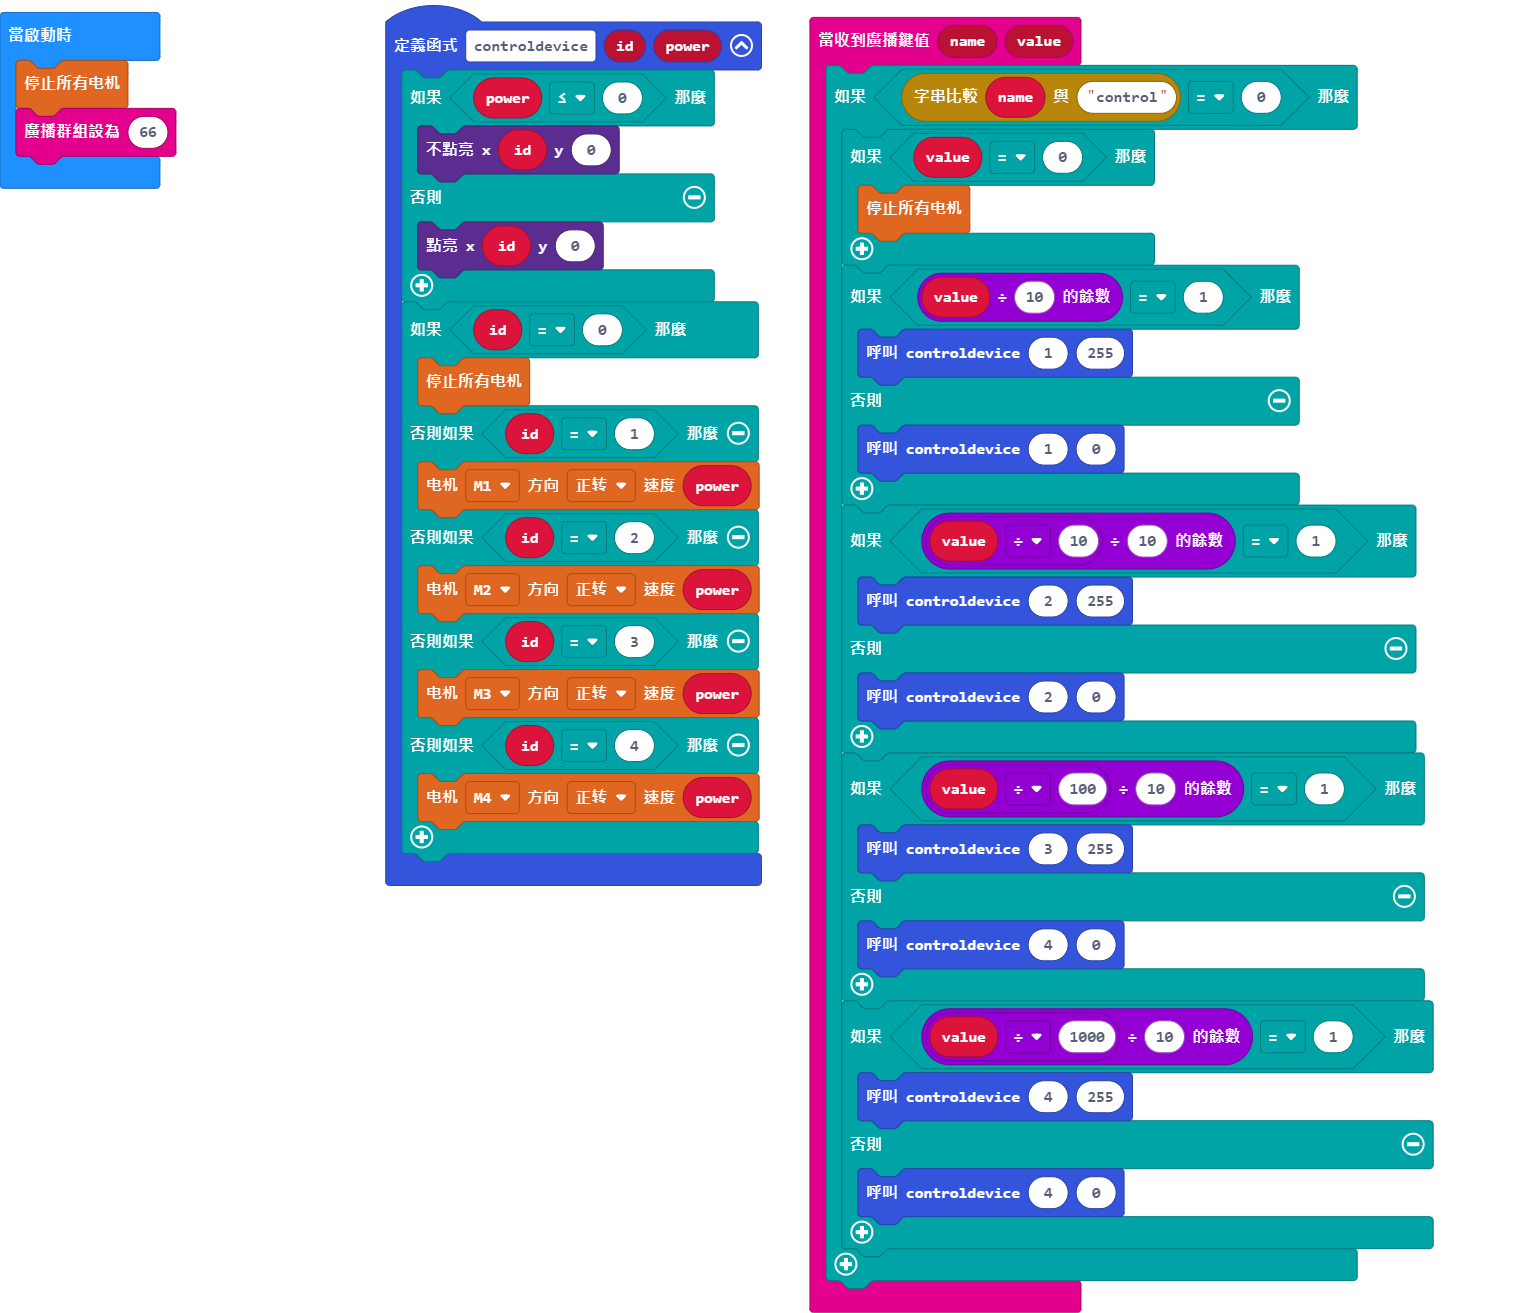
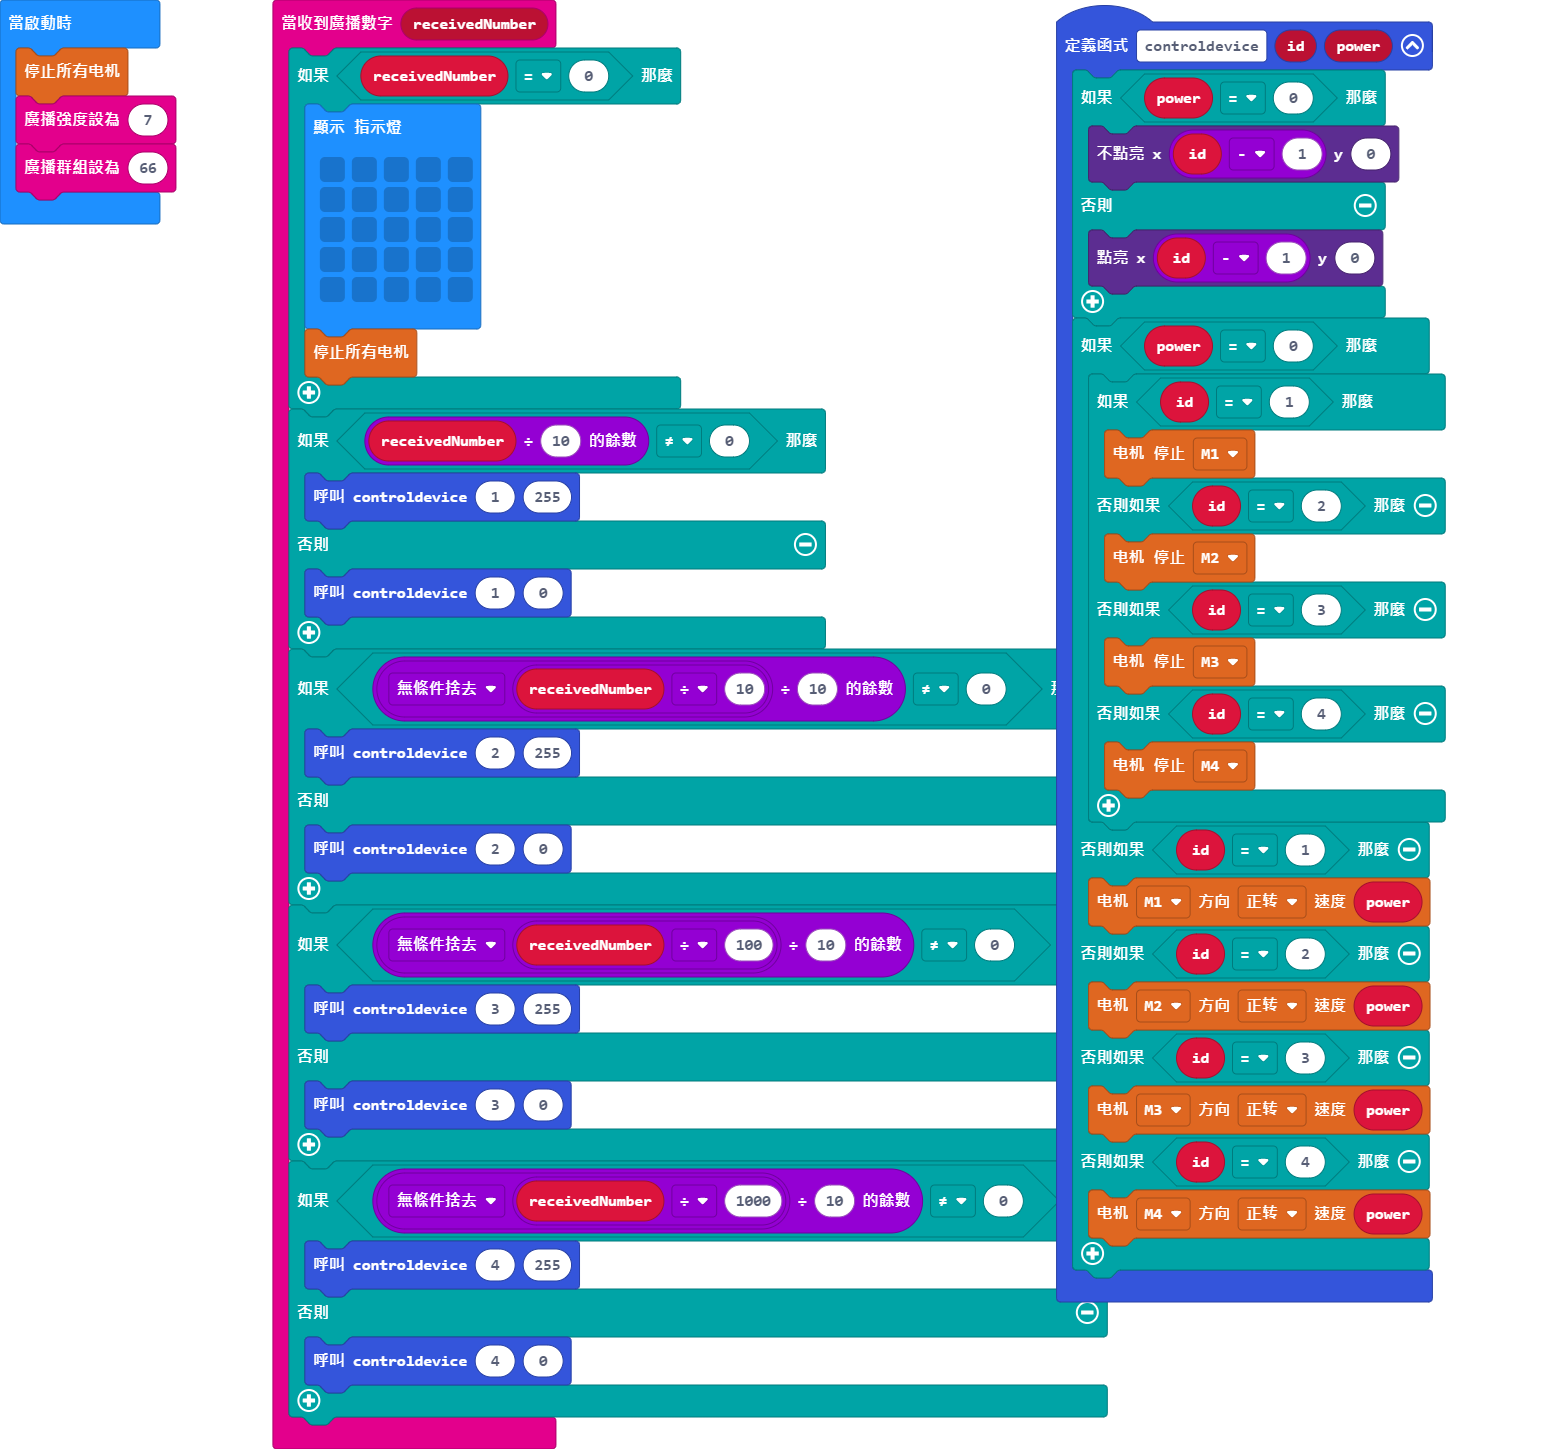
更新 main.blocks, main.ts, main.py

diff --git a/main.ts b/main.ts
@@ -1,11 +1,51 @@
-function controldevice (id: number, power: number) {
-    if (power <= 0) {
-        led.unplot(id, 0)
-    } else {
-        led.plot(id, 0)
-    }
-    if (id == 0) {
+radio.onReceivedNumber(function (receivedNumber) {
+    if (receivedNumber == 0) {
+        basic.showLeds(`
+            . . . . .
+            . . . . .
+            . . . . .
+            . . . . .
+            . . . . .
+            `)
         motor.motorStopAll()
+    }
+    if (receivedNumber % 10 != 0) {
+        controldevice(1, 255)
+    } else {
+        controldevice(1, 0)
+    }
+    if (Math.floor(receivedNumber / 10) % 10 != 0) {
+        controldevice(2, 255)
+    } else {
+        controldevice(2, 0)
+    }
+    if (Math.floor(receivedNumber / 100) % 10 != 0) {
+        controldevice(3, 255)
+    } else {
+        controldevice(3, 0)
+    }
+    if (Math.floor(receivedNumber / 1000) % 10 != 0) {
+        controldevice(4, 255)
+    } else {
+        controldevice(4, 0)
+    }
+})
+function controldevice (id: number, power: number) {
+    if (power == 0) {
+        led.unplot(id - 1, 0)
+    } else {
+        led.plot(id - 1, 0)
+    }
+    if (power == 0) {
+        if (id == 1) {
+            motor.motorStop(motor.Motors.M1)
+        } else if (id == 2) {
+            motor.motorStop(motor.Motors.M2)
+        } else if (id == 3) {
+            motor.motorStop(motor.Motors.M3)
+        } else if (id == 4) {
+            motor.motorStop(motor.Motors.M4)
+        }
     } else if (id == 1) {
         motor.MotorRun(motor.Motors.M1, motor.Dir.CW, power)
     } else if (id == 2) {
@@ -16,32 +56,6 @@ function controldevice (id: number, power: number) {
         motor.MotorRun(motor.Motors.M4, motor.Dir.CW, power)
     }
 }
-radio.onReceivedValue(function (name, value) {
-    if (name.compare("control") == 0) {
-        if (value == 0) {
-            motor.motorStopAll()
-        }
-        if (value % 10 == 1) {
-            controldevice(1, 255)
-        } else {
-            controldevice(1, 0)
-        }
-        if (value / 10 % 10 == 1) {
-            controldevice(2, 255)
-        } else {
-            controldevice(2, 0)
-        }
-        if (value / 100 % 10 == 1) {
-            controldevice(3, 255)
-        } else {
-            controldevice(4, 0)
-        }
-        if (value / 1000 % 10 == 1) {
-            controldevice(4, 255)
-        } else {
-            controldevice(4, 0)
-        }
-    }
-})
 motor.motorStopAll()
+radio.setTransmitPower(7)
 radio.setGroup(66)

diff --git a/main.py b/main.py
@@ -1,35 +1,45 @@
-def on_button_pressed_a():
-    controldevice(1, 255)
-    basic.pause(1000)
-    controldevice(2, 255)
-    basic.pause(1000)
-    controldevice(3, 255)
-    basic.pause(1000)
-    controldevice(4, 255)
-    basic.pause(5000)
-    controldevice(1, 0)
-    basic.pause(1000)
-    controldevice(2, 0)
-    basic.pause(1000)
-    controldevice(3, 0)
-    basic.pause(1000)
-    controldevice(4, 0)
-    basic.pause(1000)
-    controldevice(1, 255)
-    controldevice(2, 255)
-    controldevice(3, 255)
-    controldevice(4, 255)
-    basic.pause(5000)
-    controldevice(0, 0)
-input.on_button_pressed(Button.A, on_button_pressed_a)
+def on_received_number(receivedNumber):
+    if receivedNumber == 0:
+        basic.show_leds("""
+            . . . . .
+            . . . . .
+            . . . . .
+            . . . . .
+            . . . . .
+            """)
+        motor.motor_stop_all()
+    if receivedNumber % 10 != 0:
+        controldevice(1, 255)
+    else:
+        controldevice(1, 0)
+    if Math.floor(receivedNumber / 10) % 10 != 0:
+        controldevice(2, 255)
+    else:
+        controldevice(2, 0)
+    if Math.floor(receivedNumber / 100) % 10 != 0:
+        controldevice(3, 255)
+    else:
+        controldevice(3, 0)
+    if Math.floor(receivedNumber / 1000) % 10 != 0:
+        controldevice(4, 255)
+    else:
+        controldevice(4, 0)
+radio.on_received_number(on_received_number)
 
 def controldevice(id: number, power: number):
-    if power <= 0:
-        led.unplot(id, 0)
+    if power == 0:
+        led.unplot(id - 1, 0)
     else:
-        led.plot(id, 0)
-    if id == 0:
-        motor.motor_stop_all()
+        led.plot(id - 1, 0)
+    if power == 0:
+        if id == 1:
+            motor.motor_stop(motor.Motors.M1)
+        elif id == 2:
+            motor.motor_stop(motor.Motors.M2)
+        elif id == 3:
+            motor.motor_stop(motor.Motors.M3)
+        elif id == 4:
+            motor.motor_stop(motor.Motors.M4)
     elif id == 1:
         motor.motor_run(motor.Motors.M1, motor.Dir.CW, power)
     elif id == 2:
@@ -38,29 +48,6 @@ def controldevice(id: number, power: number):
         motor.motor_run(motor.Motors.M3, motor.Dir.CW, power)
     elif id == 4:
         motor.motor_run(motor.Motors.M4, motor.Dir.CW, power)
-
-def on_received_value(name, value):
-    if(name.compare("control") == 0):
-        if(value == 0):
-            motor.motor_stop_all()
-        if(value % 10 == 1):
-            controldevice(1, 255)
-        else:
-            controldevice(1, 0)
-        if((value / 10) % 10 == 1):
-            controldevice(2, 255)
-        else:
-            controldevice(2, 0)
-        if((value / 100) % 10 == 1):
-            controldevice(3, 255)
-        else:
-            controldevice(4, 0)
-        if((value / 1000) % 10 == 1):
-            controldevice(4, 255)
-        else:
-            controldevice(4, 0)
-radio.on_received_value(on_received_value)
-
-text_list = ["Off", "Led", "Pump1", "Pump2", "Pump3"]
 motor.motor_stop_all()
+radio.set_transmit_power(7)
 radio.set_group(66)
